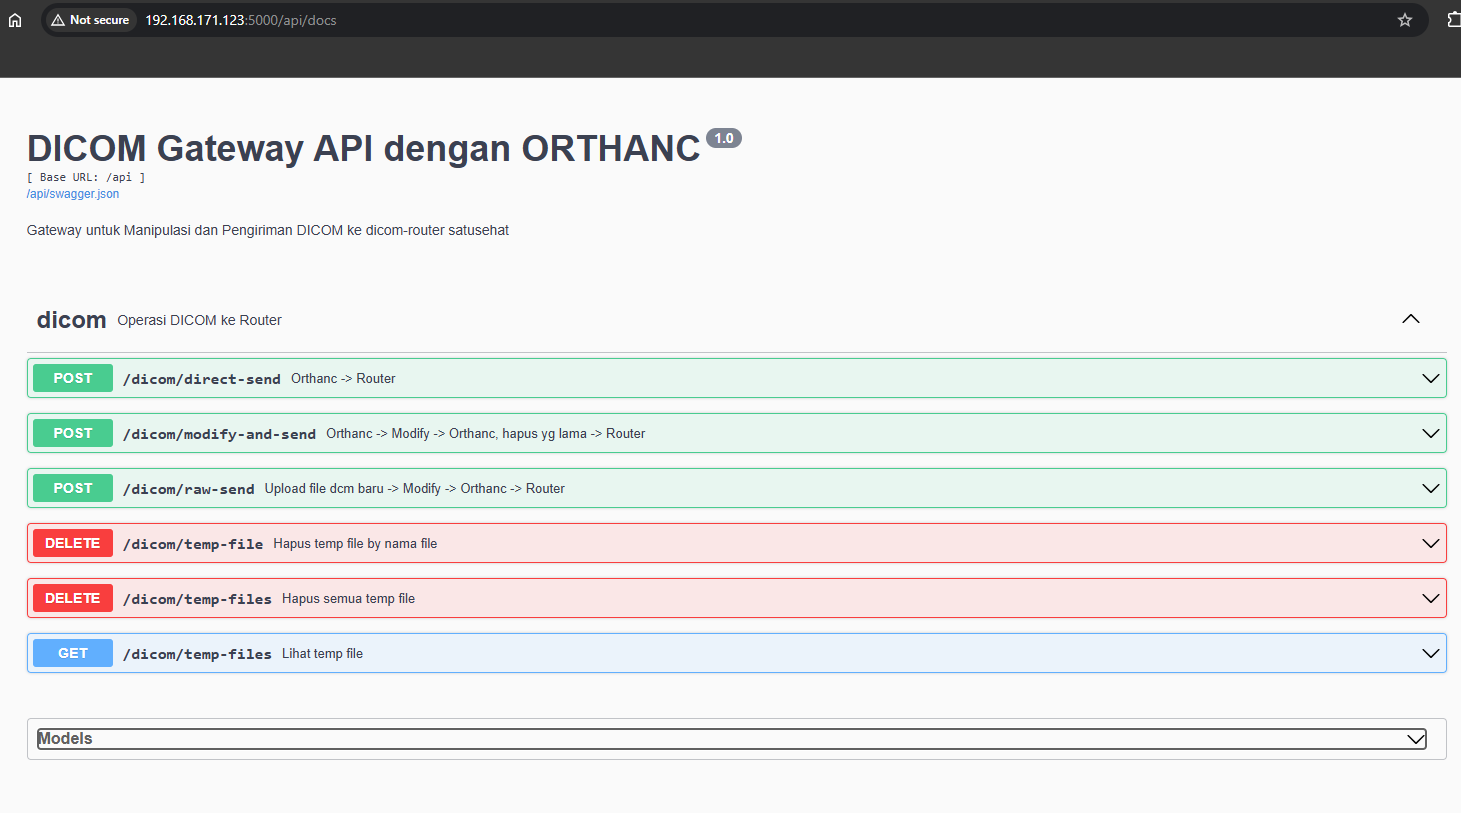
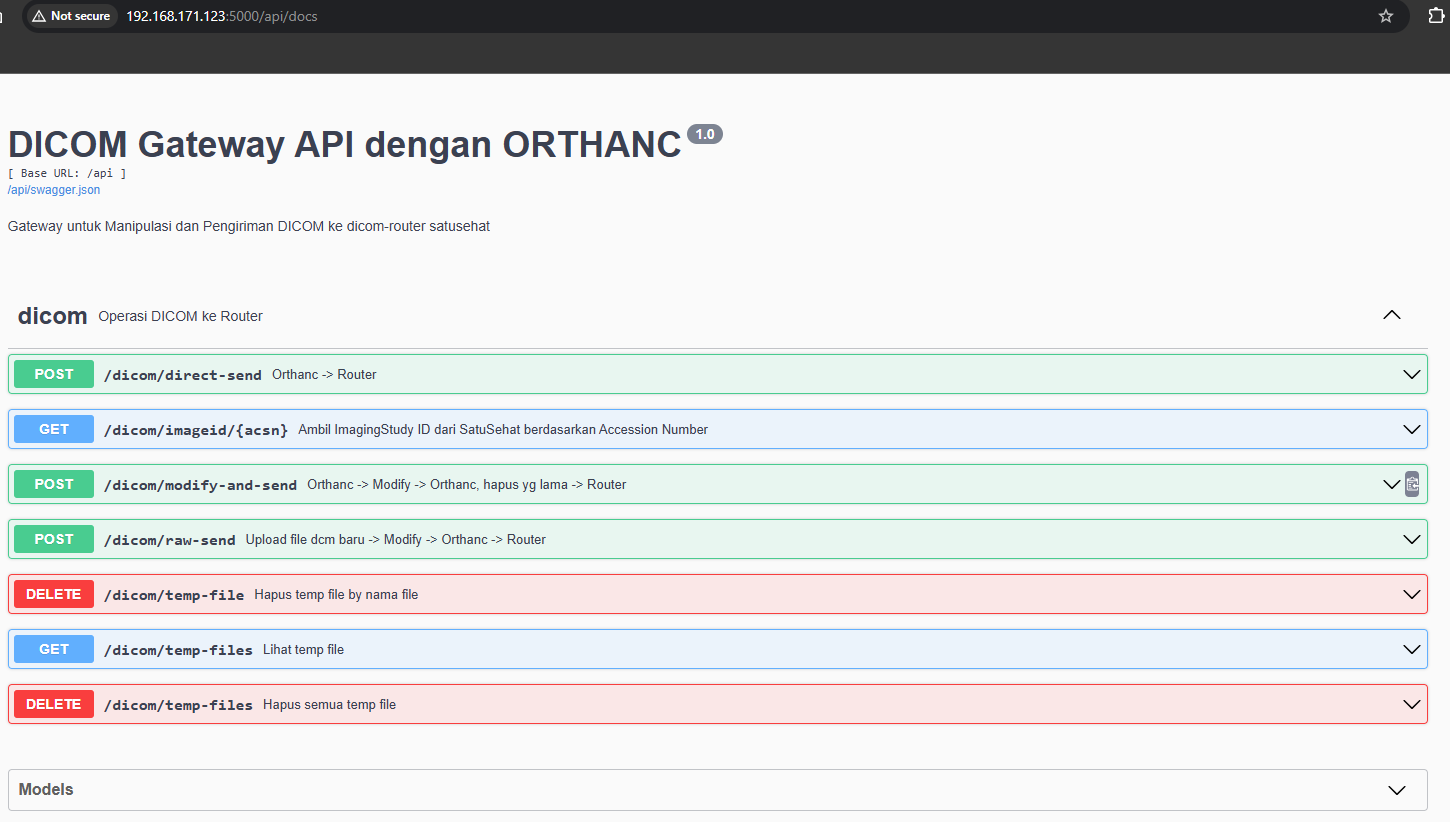
get image

diff --git a/app/templates/dcmpage.html b/app/templates/dcmpage.html
@@ -13,6 +13,7 @@
         .card { border: none; box-shadow: 0 2px 10px rgba(0,0,0,0.05); border-radius: 10px; }
         .nav-tabs .nav-link { color: #666; }
         .nav-tabs .nav-link.active { font-weight: bold; border-bottom: 3px solid #0d6efd; }
+        .result-box { background: #f0f7ff; border: 1px solid #cfe2ff; padding: 10px; border-radius: 5px; font-size: 13px; display: none; }
     </style>
 </head>
 <body>
@@ -33,6 +34,7 @@
                         <li class="nav-item"><button class="nav-link active" data-bs-toggle="tab" data-bs-target="#upload">Manual</button></li>
                         <li class="nav-item"><button class="nav-link" data-bs-toggle="tab" data-bs-target="#modify">Modify</button></li>
                         <li class="nav-item"><button class="nav-link" data-bs-toggle="tab" data-bs-target="#direct">Direct</button></li>
+                        <li class="nav-item"><button class="nav-link" data-bs-toggle="tab" data-bs-target="#satusehat"><i class="fa-solid fa-cloud me-1"></i>SatuSehat</button></li>
                     </ul>
                 </div>
                 <div class="card-body tab-content">
@@ -61,6 +63,19 @@
                             <input type="text" name="StudyInstanceUID" class="form-control mb-2" placeholder="Study Instance UID" required>
                             <button type="submit" class="btn btn-warning w-100">Send Existing</button>
                         </form>
+                    </div>
+                    <div class="tab-pane fade" id="satusehat">
+                        <p class="small text-muted mb-2">Cari ID ImagingStudy berdasarkan Accession Number.</p>
+                        <div class="input-group mb-3">
+                            <input type="text" id="ssAccNo" class="form-control" placeholder="Contoh: 202512300002">
+                            <button class="btn btn-info text-white" type="button" onclick="searchSatuSehat()">Cari ID</button>
+                        </div>
+                        <div id="ssResult" class="result-box">
+                            <strong>ID Ditemukan:</strong><br>
+                            <code id="resId" class="text-primary"></code>
+                            <hr class="my-1">
+                            <strong>Subject:</strong> <span id="resSub"></span>
+                        </div>
                     </div>
                 </div>
             </div>
@@ -100,9 +115,31 @@
         if(!isFile && body) opt.headers = {'Content-Type': 'application/json'};
         const r = await fetch(url, opt);
         const d = await r.json();
-        alert(r.ok ? "Success" : "Error: " + (d.message || "Failed"));
+        alert(r.ok ? "Success" : "Error: " + (d.message || d.error || "Failed"));
         loadTemp();
     };
+
+    // Fungsi Baru: Search SatuSehat
+    async function searchSatuSehat() {
+        const acsn = document.getElementById('ssAccNo').value;
+        const resBox = document.getElementById('ssResult');
+        if(!acsn) return alert("Masukkan Accession Number");
+
+        resBox.style.display = 'none';
+        try {
+            const r = await fetch(`/api/dicom/imageid/${acsn}`);
+            const d = await r.json();
+            if(r.ok) {
+                document.getElementById('resId').innerText = d.imagingStudy_id;
+                document.getElementById('resSub').innerText = d.patient_reference || '-';
+                resBox.style.display = 'block';
+            } else {
+                alert("Data tidak ditemukan di SatuSehat.");
+            }
+        } catch(e) {
+            alert("Terjadi kesalahan koneksi.");
+        }
+    }
 
     document.getElementById('fRaw').onsubmit = e => { e.preventDefault(); apiCall('/api/dicom/raw-send', 'POST', new FormData(e.target), true); };
     document.getElementById('fMod').onsubmit = e => { e.preventDefault(); apiCall('/api/dicom/modify-and-send', 'POST', Object.fromEntries(new FormData(e.target))); };
@@ -115,6 +152,7 @@
 
     async function loadTemp() {
         const r = await fetch('/api/dicom/temp-files');
+        if(!r.ok) return;
         const d = await r.json();
         const html = d.files.map(f => `<tr><td class="ps-3">${f.name} <small class="text-muted">(${f.size})</small></td><td class="text-end"><button class="btn btn-link text-danger p-0 pe-3" onclick="delFile('${f.name}')">×</button></td></tr>`).join('');
         document.getElementById('tempList').innerHTML = html || '<tr><td class="text-center p-3 text-muted">Empty</td></tr>';

diff --git a/app/app.py b/app/app.py
@@ -57,6 +57,31 @@ study_uid_model = dicom_ns.model('StudyUIDModel', {
 delete_file_parser = dicom_ns.parser()
 delete_file_parser.add_argument('filename', type=str, required=True)
 
+# --- SATUSEHAT CONFIG ---
+AUTH_URL = "https://api-satusehat.kemkes.go.id/oauth2/v1"
+BASE_URL = "https://api-satusehat.kemkes.go.id/fhir-r4/v1"
+ORG_ID = "1000xxxxxx"
+CLIENT_ID = "Gzn7Yjxxxxxxxxxxxxxxxxxxxxxxxxxxxxxxxxxx"
+CLIENT_SECRET = "fbPy8xxxxxxxxxxxxxxxxxxxxxxxxxxxxxxxxxxxxx"
+
+# --- HELPER SATUSEHAT ---
+def fetch_ss_token():
+    token_url = f"{AUTH_URL}/accesstoken?grant_type=client_credentials"
+    try:
+        resp = requests.post(token_url, data={"client_id": CLIENT_ID, "client_secret": CLIENT_SECRET}, timeout=15)
+        resp.raise_for_status()
+        return resp.json().get("access_token"), None
+    except Exception as e:
+        return None, str(e)
+
+def fhir_get(url, token):
+    headers = {"Authorization": f"Bearer {token}", "Accept": "application/fhir+json"}
+    try:
+        resp = requests.get(url, headers=headers, timeout=20)
+        return resp.json(), resp.status_code
+    except Exception as e:
+        return {"error": str(e)}, 502
+
 # --- HELPER FUNCTIONS ---
 def modify_dicom_tags(filepath, patient_id, accession_num):
     try:
@@ -224,6 +249,41 @@ class DeleteSingleFile(Resource):
                 os.remove(os.path.join(root, fname))
                 return {"message": "Deleted"}
         return {"message": "Not found"}, 404
+
+
+@dicom_ns.route('/imageid/<string:acsn>')
+@dicom_ns.doc(params={'acsn': 'Accession Number dari PACS/SatuSehat'})
+class ImageId(Resource):
+    def get(self, acsn):
+        """Ambil ImagingStudy ID dari SatuSehat berdasarkan Accession Number"""
+        token, err = fetch_ss_token()
+        if err:
+            logger.error(f"Auth SatuSehat failed")
+            return {"status": "error", "message": "Auth SatuSehat failed", "detail": err}, 502
+        
+        identifier_system = f"http://sys-ids.kemkes.go.id/acsn/{ORG_ID}"
+        url = f"{BASE_URL}/ImagingStudy?identifier={identifier_system}|{acsn}"
+        
+        data, status = fhir_get(url, token)
+        
+        if status != 200:
+            return {"status": "error", "detail": data}, status
+
+        # Parsing Bundle response
+        if data.get("resourceType") == "Bundle":
+            entries = data.get("entry") or []
+            for e in entries:
+                res = e.get("resource") or {}
+                if res.get("resourceType") == "ImagingStudy":
+                    logger.info(f"imagingStudy_id :", res.get("id"))    
+                    return {
+                        "status": "success",
+                        "imagingStudy_id": res.get("id"),
+                        "patient_reference": res.get("subject", {}).get("reference")
+                    }, 200
+
+        logger.error(f"No ImagingStudy found for this Accession Number")    
+        return {"status": "error", "message": "No ImagingStudy found for this Accession Number"}, 404
 
 # --- WEB ROUTES ---
 @app.route("/")

diff --git a/README.md b/README.md
@@ -175,7 +175,56 @@ C. POST /api/dicom/dcm-send
   "status": "sent to router"
 }
 ```
-- api dokumentasi : http://<#ip-flaskserver>/api/docs
+
+
+D. GET /api/dicom/imageid/{acsn}
+
+- Endpoint ini digunakan untuk mengambil UUID ImagingStudy dari server SatuSehat berdasarkan Accession Number yang terdaftar.
+
+- Deskripsi: Melakukan autentikasi ke OAuth2 SatuSehat, kemudian melakukan query ke FHIR server menggunakan sistem identifier spesifik Organisasi untuk mendapatkan ID resource ImagingStudy.
+
+- Parameter URL:
+
+acsn (String): Nomor akses unik (Accession Number) dari PACS atau SatuSehat.
+
+- Header:
+
+Accept: application/json
+
+- Contoh Request: GET /api/dicom/imageid/202512300002
+
+Respon Sukses (200 OK):
+
+```JSON
+
+{
+  "status": "success",
+  "imagingStudy_id": "876f827a-590b-4e8c-859a-xxxxxxxxxxxx",
+  "patient_reference": "Patient/1000000001"
+}
+```
+
+Respon Error (404 Not Found):
+
+```JSON
+
+{
+  "status": "error",
+  "message": "No ImagingStudy found for this Accession Number"
+}
+```
+Respon Error (502 Bad Gateway):
+
+```JSON
+
+{
+  "status": "error",
+  "message": "Auth SatuSehat failed",
+  "detail": "Connection Timeout"
+}
+```
+
+E.  api dokumentasi : http://<#ip-flaskserver>/api/docs
 
 ![Gambar api dicom gateway](images/api-docs-orthanc.png)
 
@@ -186,6 +235,8 @@ C. POST /api/dicom/dcm-send
 ![Gambar api dicom gateway](images/web-man-orthanc.png)
 
 ![Gambar api dicom gateway](images/web-mod-orthanc.png)
+
+![Gambar api dicom gateway](images/web-img-orthanc.png)
 
 ### CLONE DAN RUNNING DI DOCKER
 
@@ -391,3 +442,19 @@ Exception: ServiceRequest not found
 I: Encryption Config is False
 I: Deleting association folder
  ```
+
+ ### MEMASTIKAN IMAGE SUDAH DITERIMA OLEH SATUSEHAT
+
+ GET  http://192.168.171.123:5000/api/dicom/imageid/20250002
+
+ Lookup ImagingStudy by ACSN and return the ImagingStudy id.
+ 
+ 	
+Response body
+```json
+ {
+  "status": "success",
+  "imagingStudy_id": "75b7e9d0-c079-419c-84f8-8dba7b9cd585",
+  "patient_reference": "Patient/P104430137--"
+}
+```
